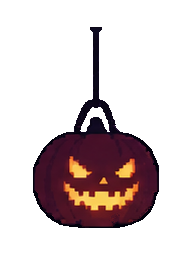
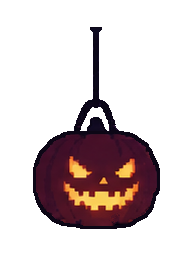
GameName Update

diff --git a/game/scenes/Menu.cs b/game/scenes/Menu.cs
@@ -6,6 +6,10 @@ public partial class Menu : Node2D
 {
 	[Export]
 	public Button PlayBtn { get; set; }
+
+	[Export] 
+	public Button SettingsBtn { get; set; }
+
 	[Export]
 	public Button QuitBtn { get; set; }
 	
